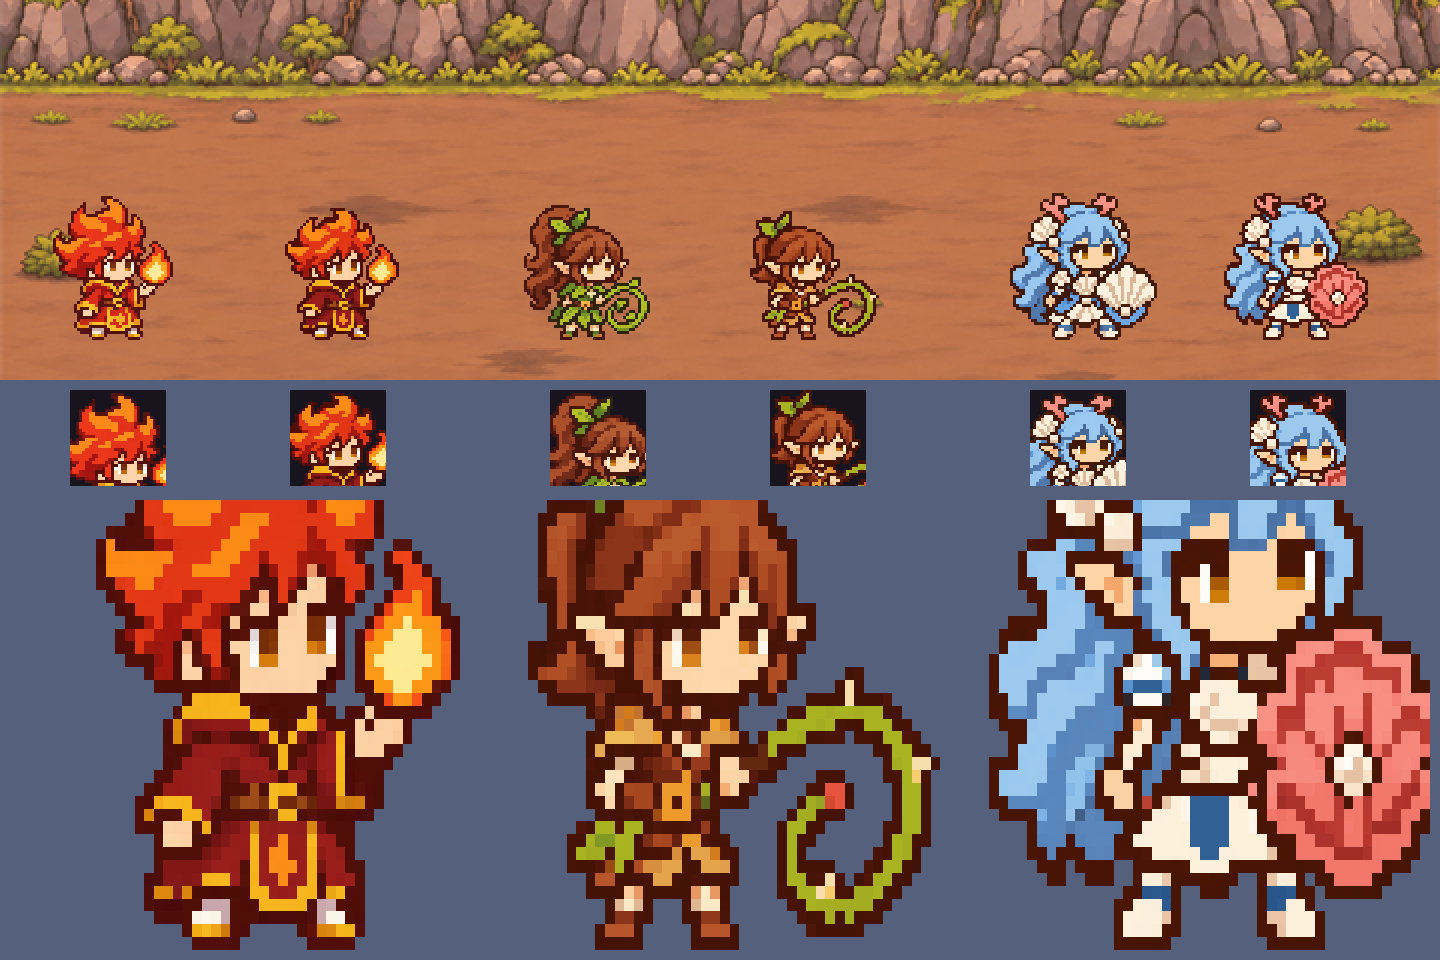
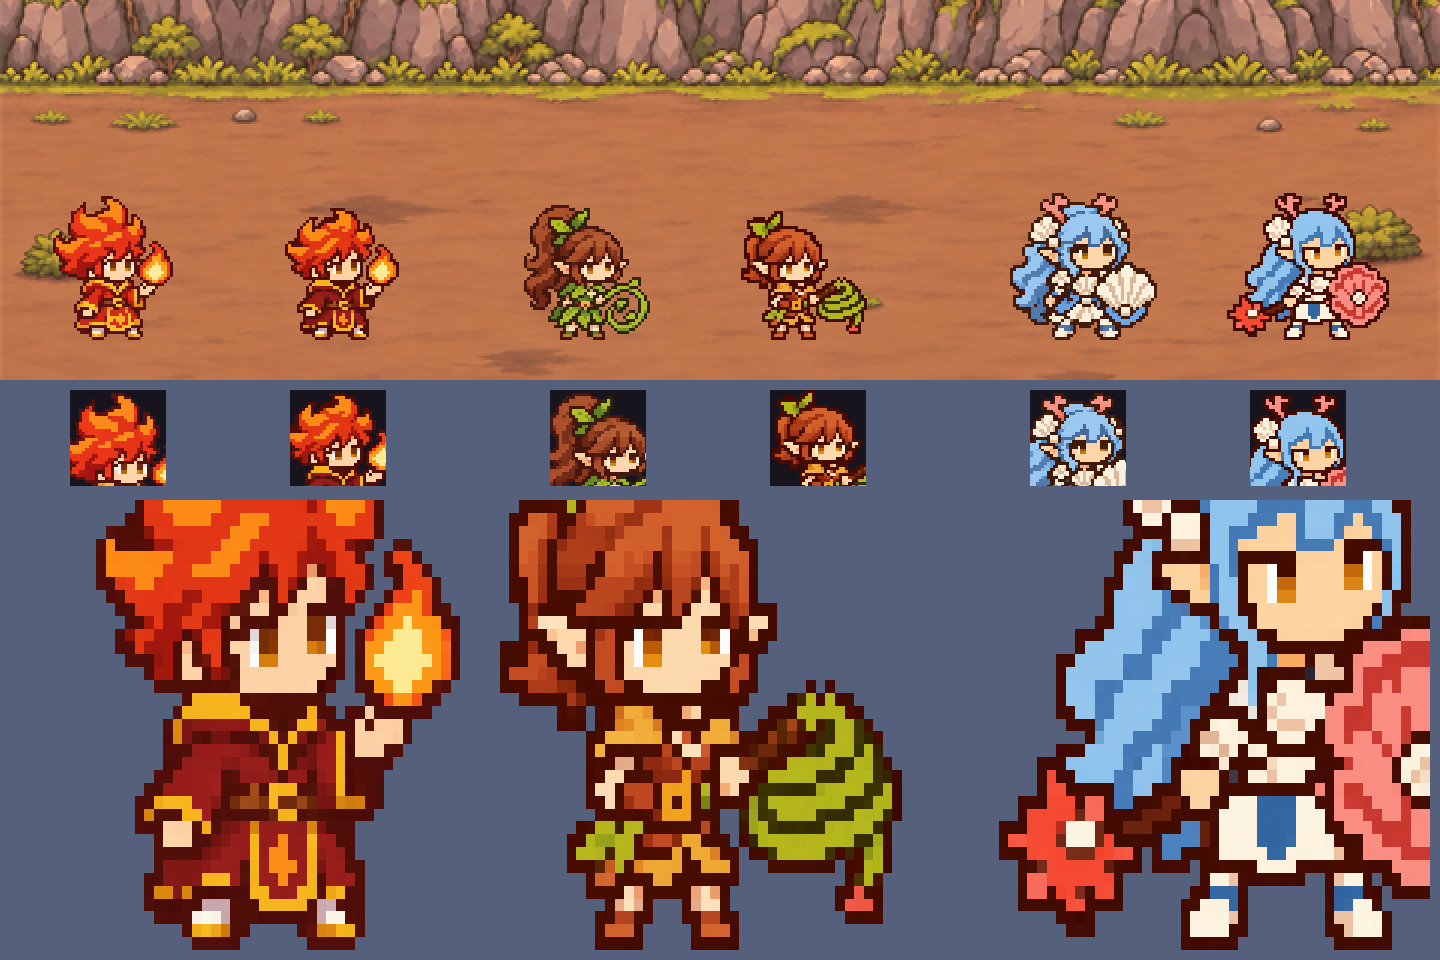
코라 무기·아이비 채찍·눈 규칙 시안, 영웅 검수 항목 스킬 등록, 블레이즈 동작 시트 시험

diff --git a/개발일지/2026-11-28/이미지.md b/개발일지/2026-11-28/이미지.md
@@ -12,3 +12,9 @@
 
 - 결과: 확대 검수와 전장 배경 합성·얼굴 아이콘 모양 확인. 블레이즈 왼쪽 눈은 손으로 고침. 게임에 넣어 보지는 않음. 사용자 확인 대기.
 - 그림: img/codex/redo3/compare_final.png
+
+## [디자인] 코라 무기·아이비 채찍·눈 규칙 반영, 블레이즈 동작 시트 시험 ⭐
+- 한 것: 코라에 산호 철퇴 추가·머리 윤곽 둥글게·오른쪽 눈과 왼쪽 눈썹 수정, 아이비 채찍을 빈틈없이 감은 모양으로, 외곽선 빠진 점 메움(시안 `img/codex/redo3/*_new9.png`, `img/p`는 안 바꿈). 검수 항목을 `game-art-hero` 스킬에 등록. 블레이즈 동작 8칸 시트를 통째로 첨부해 새 시트를 받음.
+- 의도: "흰자1개 눈동자 2개이어야돼. 좌우 같이." / "코라는 무기가 없어. 대부분 무기가 있어야돼" / "아이비는 ... 거북목처럼" / "무기는 묵직한 맛" / "장신구는 머리크기와 별개로" / "갈색 저거로 라인잡아줘" / "눈썹라인은 1픽셀로" / "이미지 1장에 이동이랑 공격 모션 다 있는 이미지"
+- 결과: 시트 전달은 8칸의 옷·동작이 지금과 같게 이어짐. 머리는 새 시안의 낮은 머리가 아니라 지금 시트의 큰 머리를 따라갔고, 왼쪽 눈 1점 아래가 안 지켜짐. 코라는 폭 54점(기사 47). 게임에 넣어 보지는 않음. 사용자 확인 대기.
+- 그림: img/codex/redo3/compare_final2.png, img/codex/redo3/sheet/compare_anim.png
